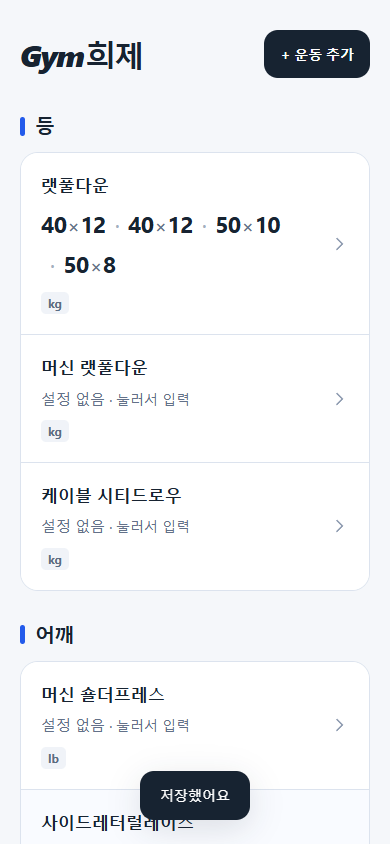
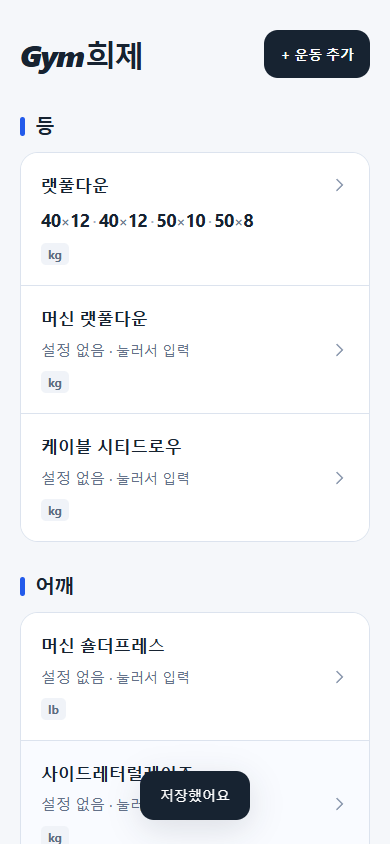
Keep four workout sets on one mobile row in Gym희제 v1.1.1

diff --git a/src/styles/ui.css b/src/styles/ui.css
@@ -606,6 +606,29 @@
     margin-top: 6px;
   }
 }
+@media (max-width: 599px) {
+  .exercise-card.exercise-card--four-sets {
+    display: block;
+    position: relative;
+  }
+  .exercise-card--four-sets h3 {
+    padding-right: 28px;
+  }
+  .exercise-card--four-sets > svg {
+    position: absolute;
+    top: 22px;
+    right: 20px;
+  }
+  .exercise-card--four-sets .set-summary {
+    font-size: 1.125rem;
+  }
+  .exercise-card--four-sets .set-dot {
+    margin: 0 3px;
+  }
+  .exercise-card--four-sets .times {
+    margin: 0;
+  }
+}
 @media (max-width: 359px) {
   .set-card {
     padding: 10px 14px 18px;

diff --git a/src/screens/Home.tsx b/src/screens/Home.tsx
@@ -108,7 +108,7 @@ export function Home() {
                 .filter((v) => v.exercise.categoryId === category.id)
                 .map(({ exercise, current, error: recordError }) => (
                   <button
-                    className="exercise-card"
+                    className={`exercise-card${current?.sets.length === 4 ? " exercise-card--four-sets" : ""}`}
                     key={exercise.id}
                     id={`exercise-${exercise.id}`}
                     onClick={() => go(`/exercise/${exercise.id}`)}

diff --git a/src/main.tsx b/src/main.tsx
@@ -4,7 +4,7 @@ import { App } from "./app/App";
 import { initializePwa } from "./pwa/lifecycle";
 import "./styles/app.css";
 document.documentElement.dataset.release =
-  import.meta.env.VITE_RELEASE ?? "1.1.0";
+  import.meta.env.VITE_RELEASE ?? "1.1.1";
 createRoot(document.getElementById("root")!).render(
   <React.StrictMode>
     <App />

diff --git a/docs/VALIDATION.md b/docs/VALIDATION.md
@@ -1,5 +1,15 @@
 # Gym희제 v1.1 검증 기록
 
+## v1.1.1 모바일 4세트 표시 수정
+
+2026-10-01: 단위 검사 59개 통과. Edge·WebKit 브라우저 검사 24개 중 21개 통과, 기존 도구 제한에 따른 제외 3개, 실패 0개.
+
+- [Apple 화면 규격](https://developer.apple.com/kr/design/human-interface-guidelines/layout)의 iPhone 16 Pro 402×874를 포함해 390·402·430px에서 각 세트의 위치와 카드 내부 경계를 확인했다.
+- `40×12 · 40×12 · 50×10 · 50×8`, 세 자리 중량, 소수 중량 `100.5 / 125.5`를 포함한 네 조합의 4세트가 모두 같은 줄에 있고 가로 잘림이 없었다.
+- 200% 글자 확대 시 값을 숨기지 않고 줄바꿈하며 페이지의 가로 넘침이 없었다. 데스크톱의 숫자 크기는 기존 23px이었다.
+- 기존 저장소 보존, 명시적 운동 삭제, 구버전 데이터에서 새 버전 적용, 다른 창의 편집 유지, 오프라인 저장 검사를 통과했다. DB 이름·버전·저장 데이터 구조는 변경하지 않았다.
+- 실물 iPhone에서의 확인은 아직 하지 않았으며 자동화된 Edge·WebKit 화면 검증 결과이다.
+
 검증 환경: 2026-09-29, Windows, Node 24.12, Edge와 Playwright 1.63 WebKit. 브라우저마다 별도의 임시 저장 공간을 사용했다. 스크린샷의 중량은 테스트 예시이며 실제 앱 초기 데이터에는 포함되지 않는다.
 
 ## 구현 및 검증 범위

diff --git a/README.md b/README.md
@@ -1,4 +1,4 @@
-# Gym희제 v1.1
+# Gym희제 v1.1.1
 
 세트마다 다른 중량과 반복 횟수를 기록하는 개인용 PWA입니다. 로그인이나 서버 저장 없이, 사용하는 기기의 브라우저에 기록합니다.
 
@@ -13,8 +13,11 @@
 - 사용자 운동 추가, 이름·분류 수정
 - 기본·추가 운동 모두 상세 화면 상단의 ‘운동 삭제’로 삭제 가능
 - 첫 준비 완료 후 오프라인 조회·저장·재실행
+- 모바일 메인 목록에서 4세트를 한 줄에 표시하도록 숫자 줄의 폭과 간격 조정
 
 기본 운동의 실제 중량과 반복은 비워 두었습니다. 문서와 화면 캡처에 등장하는 숫자는 **검증용 예시**이며 실제 앱의 초기 기록이 아닙니다.
+
+v1.1.1에서는 4세트인 운동의 모바일 카드에서 화살표를 운동명 옆으로 배치하고 세트 줄에 카드 전체 폭을 사용합니다. 390·402·430px에서 두 자리·세 자리·소수 중량 4세트가 모두 한 줄에 들어가는지 Edge·WebKit으로 확인했습니다. 글자 확대나 더 긴 기록은 줄바꿈할 수 있으며 값을 숨기거나 묶지 않습니다. 운동 데이터·DB 형식은 그대로 유지합니다.
 
 ## 운동 삭제 방법
 
